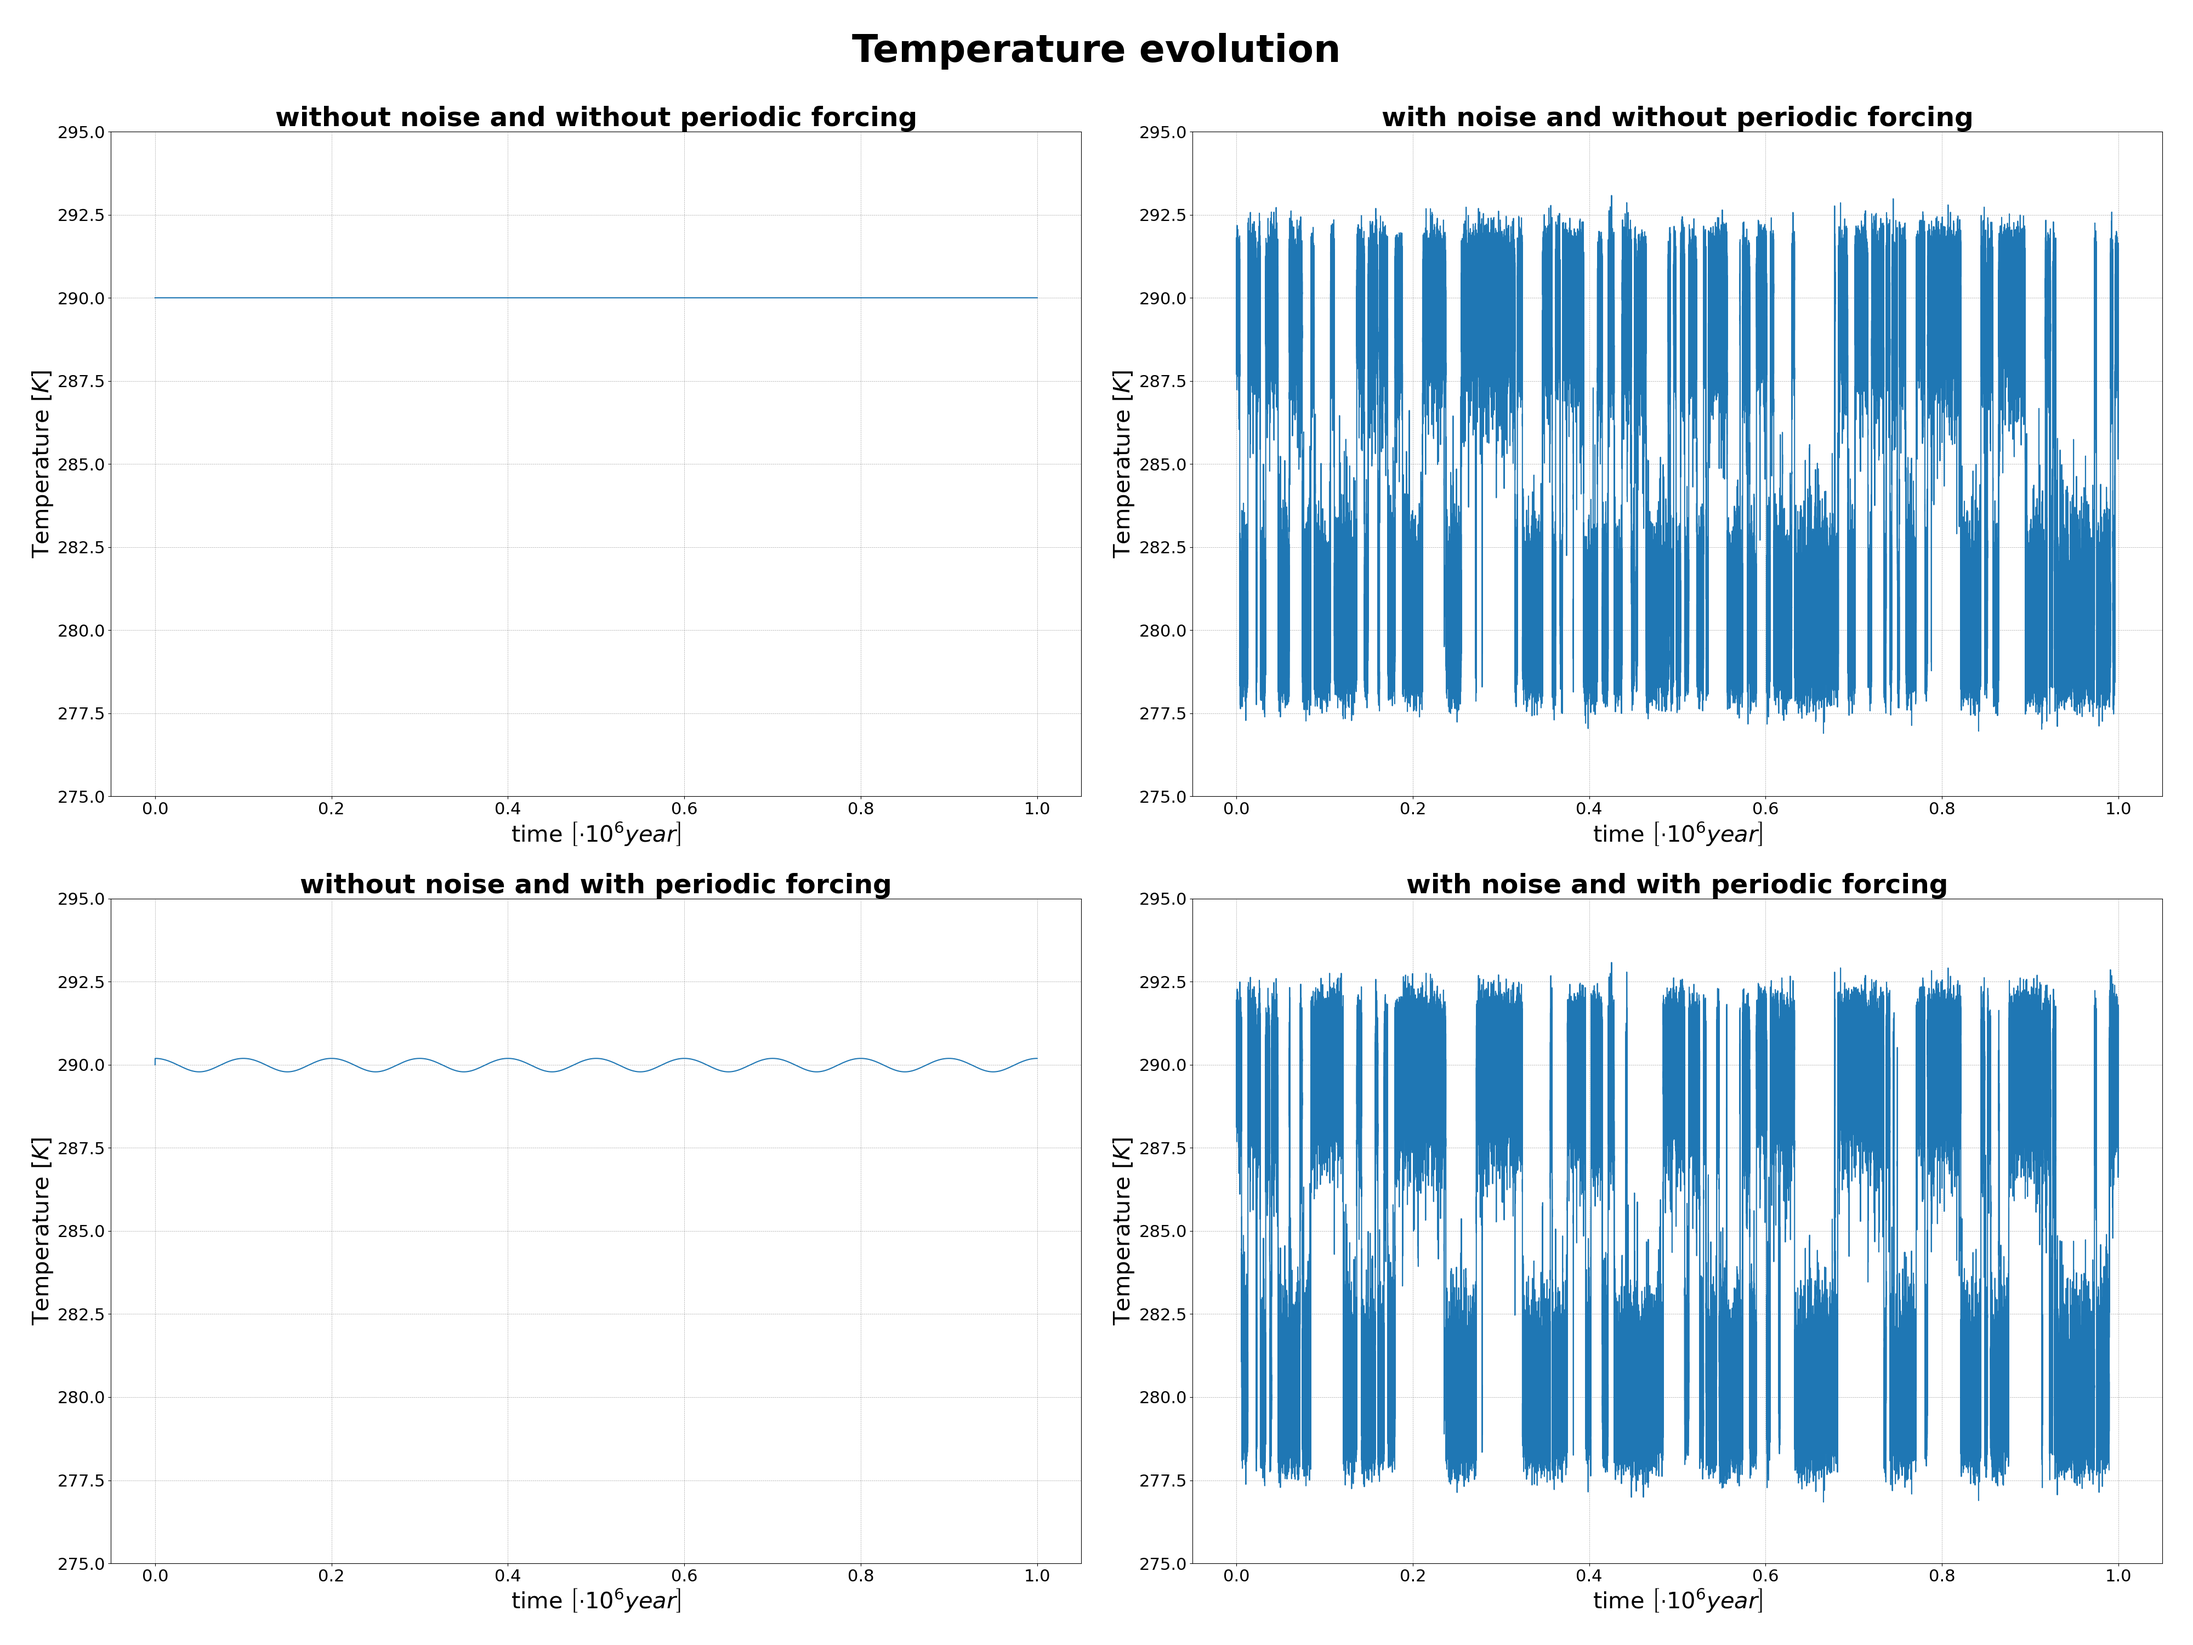
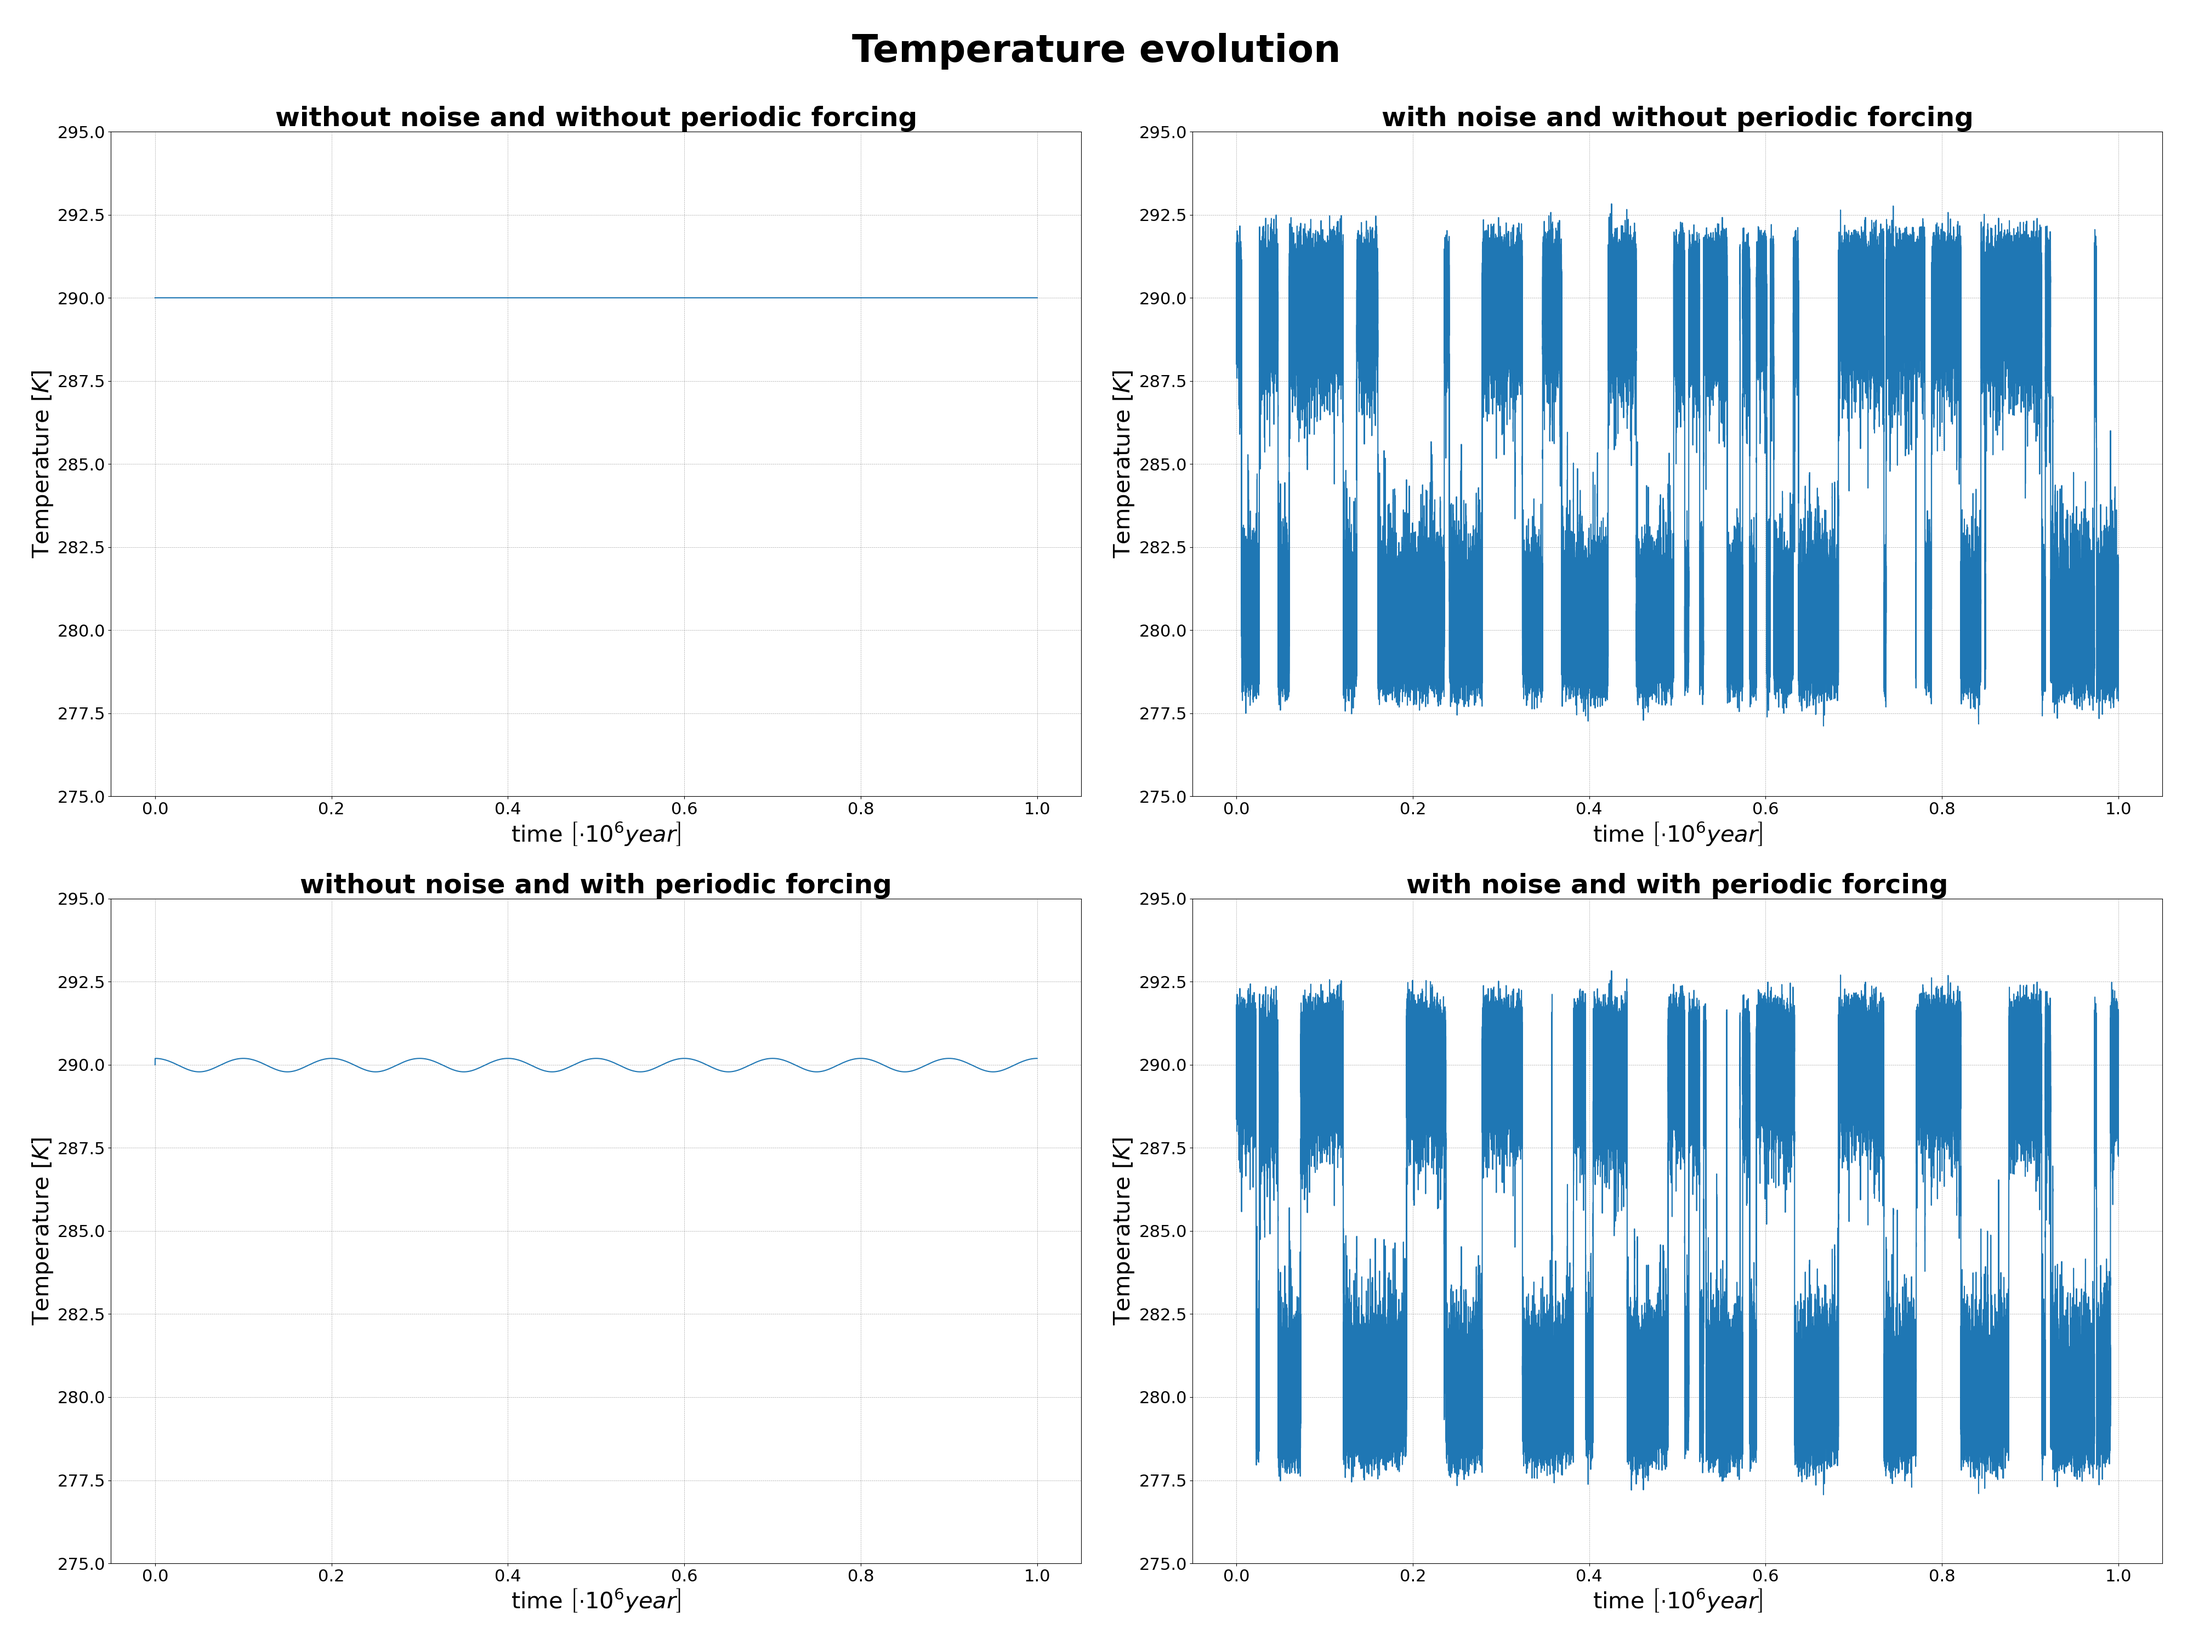
Separated Data Calculation and Visualization in 'plot_simulate_ito()' and Introduced 'simulate_ito_combinations_and_collect_results()' Function
In this commit, I refactored the 'plot_simulate_ito()' function in the 'plots.py' module.
This function is responsible for generating the 'temperature_evolution_plot.png' plot.
Previously, 'plot_simulate_ito()' handled both data calculation and visualization, which has now been separated for better code organization and clarity of responsibilities.
To achieve this, I introduced a new function ('simulate_ito_combinations_and_collect_results()') in the 'stochastic_resonance.py' module:

-The new function is responsible for computing the data that was previously processed within 'plot_simulate_ito()' and collecting the results.
- It takes two input parameters: 'initial_temperature' and 'noise_variance'.
- This function is called from within the 'simulation.py' module, and the resulting data is saved in two '.npy' files located in the data folder.
-A key improvement is that the function is called with the noise variance parameter set to the value that produces the maximum peak height in the power spectrum.

Finally, the plotting function reads the data from the '.npy' files and generates the 'temperature_evolution_plot.png'.

In addition to these changes, I have renamed 'plot_simulate_ito()' to 'plot_simulate_ito_combinations()' for clarity.
[…]

Changed region(s): [[0.5625, 0.124, 0.9688, 0.434], [0.5625, 0.589, 0.9688, 0.899], [0.875, 0.868, 0.9375, 0.899]]

diff --git a/plots.py b/plots.py
@@ -2,7 +2,6 @@ import numpy as np
 import matplotlib.pyplot as plt
 from matplotlib.ticker import ScalarFormatter
 import os
-import stochastic_resonance
 import configparser
 
 config = configparser.ConfigParser()
@@ -25,6 +24,8 @@ evolution_towards_steady_states_destination = config['paths'].get('evolution_tow
 temperature_evolution_plot_destination = config['paths'].get('temperature_evolution_plot')
 peak_height_destination = config['paths'].get('peak_height_plot')
 power_spectra_plots_destination = config['paths'].get('power_spectra_plots')
+time_combinations = config['paths'].get('time_combinations')
+temperatures_combinations = config['paths'].get('temperatures_combinations')
 
 def emission_models_comparison_plots():
     fig, axes = plt.subplots(1, 2, figsize = (20, 10))
@@ -144,7 +145,7 @@ def power_spectra_plots():
 
     plt.savefig(power_spectra_plots_destination)
 
-def plot_simulate_ito():
+def plot_simulate_ito_combinations():
     """
     This function plots the evolution of the temperature w.r.t. the time with and without noise and periodic forcing
     """
@@ -155,13 +156,8 @@ def plot_simulate_ito():
     stable_solution_1 = config['settings'].getfloat('T1')
     stable_solution_2 = config['settings'].getfloat('T3')
 
-    temperatures = []
-    times = []
-
-    for noise_status, forcing_type in [(False, 'constant'), (True, 'constant'), (False, 'varying'), (True, 'varying')]:
-        time, temperature = stochastic_resonance.simulate_ito(T_start=stable_solution_2, t_start=0, noise_variance=0.11 if noise_status else 0, num_simulations=1, noise=noise_status, forcing=forcing_type)
-        times.append(time)
-        temperatures.append(temperature)
+    times = np.load(time_combinations)
+    temperatures = np.load(temperatures_combinations)
 
     titles = ['without noise and without periodic forcing',
 	      'with noise and without periodic forcing',
@@ -214,6 +210,6 @@ def peak_height_plot():
 
 emission_models_comparison_plots()
 evolution_towards_steady_states_plot()
-plot_simulate_ito()
+plot_simulate_ito_combinations()
 peak_height_plot()
 power_spectra_plots()

diff --git a/simulation.py b/simulation.py
@@ -50,6 +50,8 @@ frequencies_destination = config['paths'].get('simulated_frequencies')
 PSD_destination = config['paths'].get('simulated_PSD')
 
 peak_height_destination = config['paths'].get('simulated_peak_height')
+time_combinations_destination = config['paths'].get('time_combinations')
+temperatures_combinations_destination = config['paths'].get('temperatures_combinations')
 
 
 #------Generation of data for the emission models comparison----------------------------------
@@ -118,5 +120,14 @@ peaks_indices = stochastic_resonance.find_peak_indices(Frequencies, period)
 peaks = stochastic_resonance.calculate_peaks(Frequencies, PSD_mean, peaks_indices)
 peaks_base = stochastic_resonance.calculate_peaks_base(Frequencies, PSD_mean, peaks_indices)
 peaks_height = stochastic_resonance.calculate_peak_height(peaks, peaks_base)
-
 np.save(peak_height_destination, peaks_height)
+
+V_SR_index = np.argmax(peaks_height)
+V_SR = V[V_SR_index]
+
+print('The value of the variance for which the system shows the stochastic resonance mechanism is : {0}'.format(V_SR))
+
+time_combinations, temperatures_combinations = stochastic_resonance.simulate_ito_combinations_and_collect_results(initial_temperature = stable_solution_2, noise_variance = V_SR)
+
+np.save(time_combinations_destination, time_combinations)
+np.save(temperatures_combinations_destination, temperatures_combinations)

diff --git a/stochastic_resonance.py b/stochastic_resonance.py
@@ -174,3 +174,17 @@ def calculate_peak_height(peaks, peaks_base):
     """
     peak_height = peaks - peaks_base
     return peak_height
+
+def simulate_ito_combinations_and_collect_results(initial_temperature, noise_variance):
+
+    times = []
+    temperatures = []
+
+    for noise_status, forcing_type in [(False, 'constant'), (True, 'constant'), (False, 'varying'), (True, 'varying')]:
+        time, temperature = simulate_ito(T_start= initial_temperature, t_start=0,
+					 noise_variance=noise_variance if noise_status else 0, num_simulations=1,
+					 noise=noise_status, forcing=forcing_type)
+        times.append(time)
+        temperatures.append(temperature)
+
+    return times, temperatures
